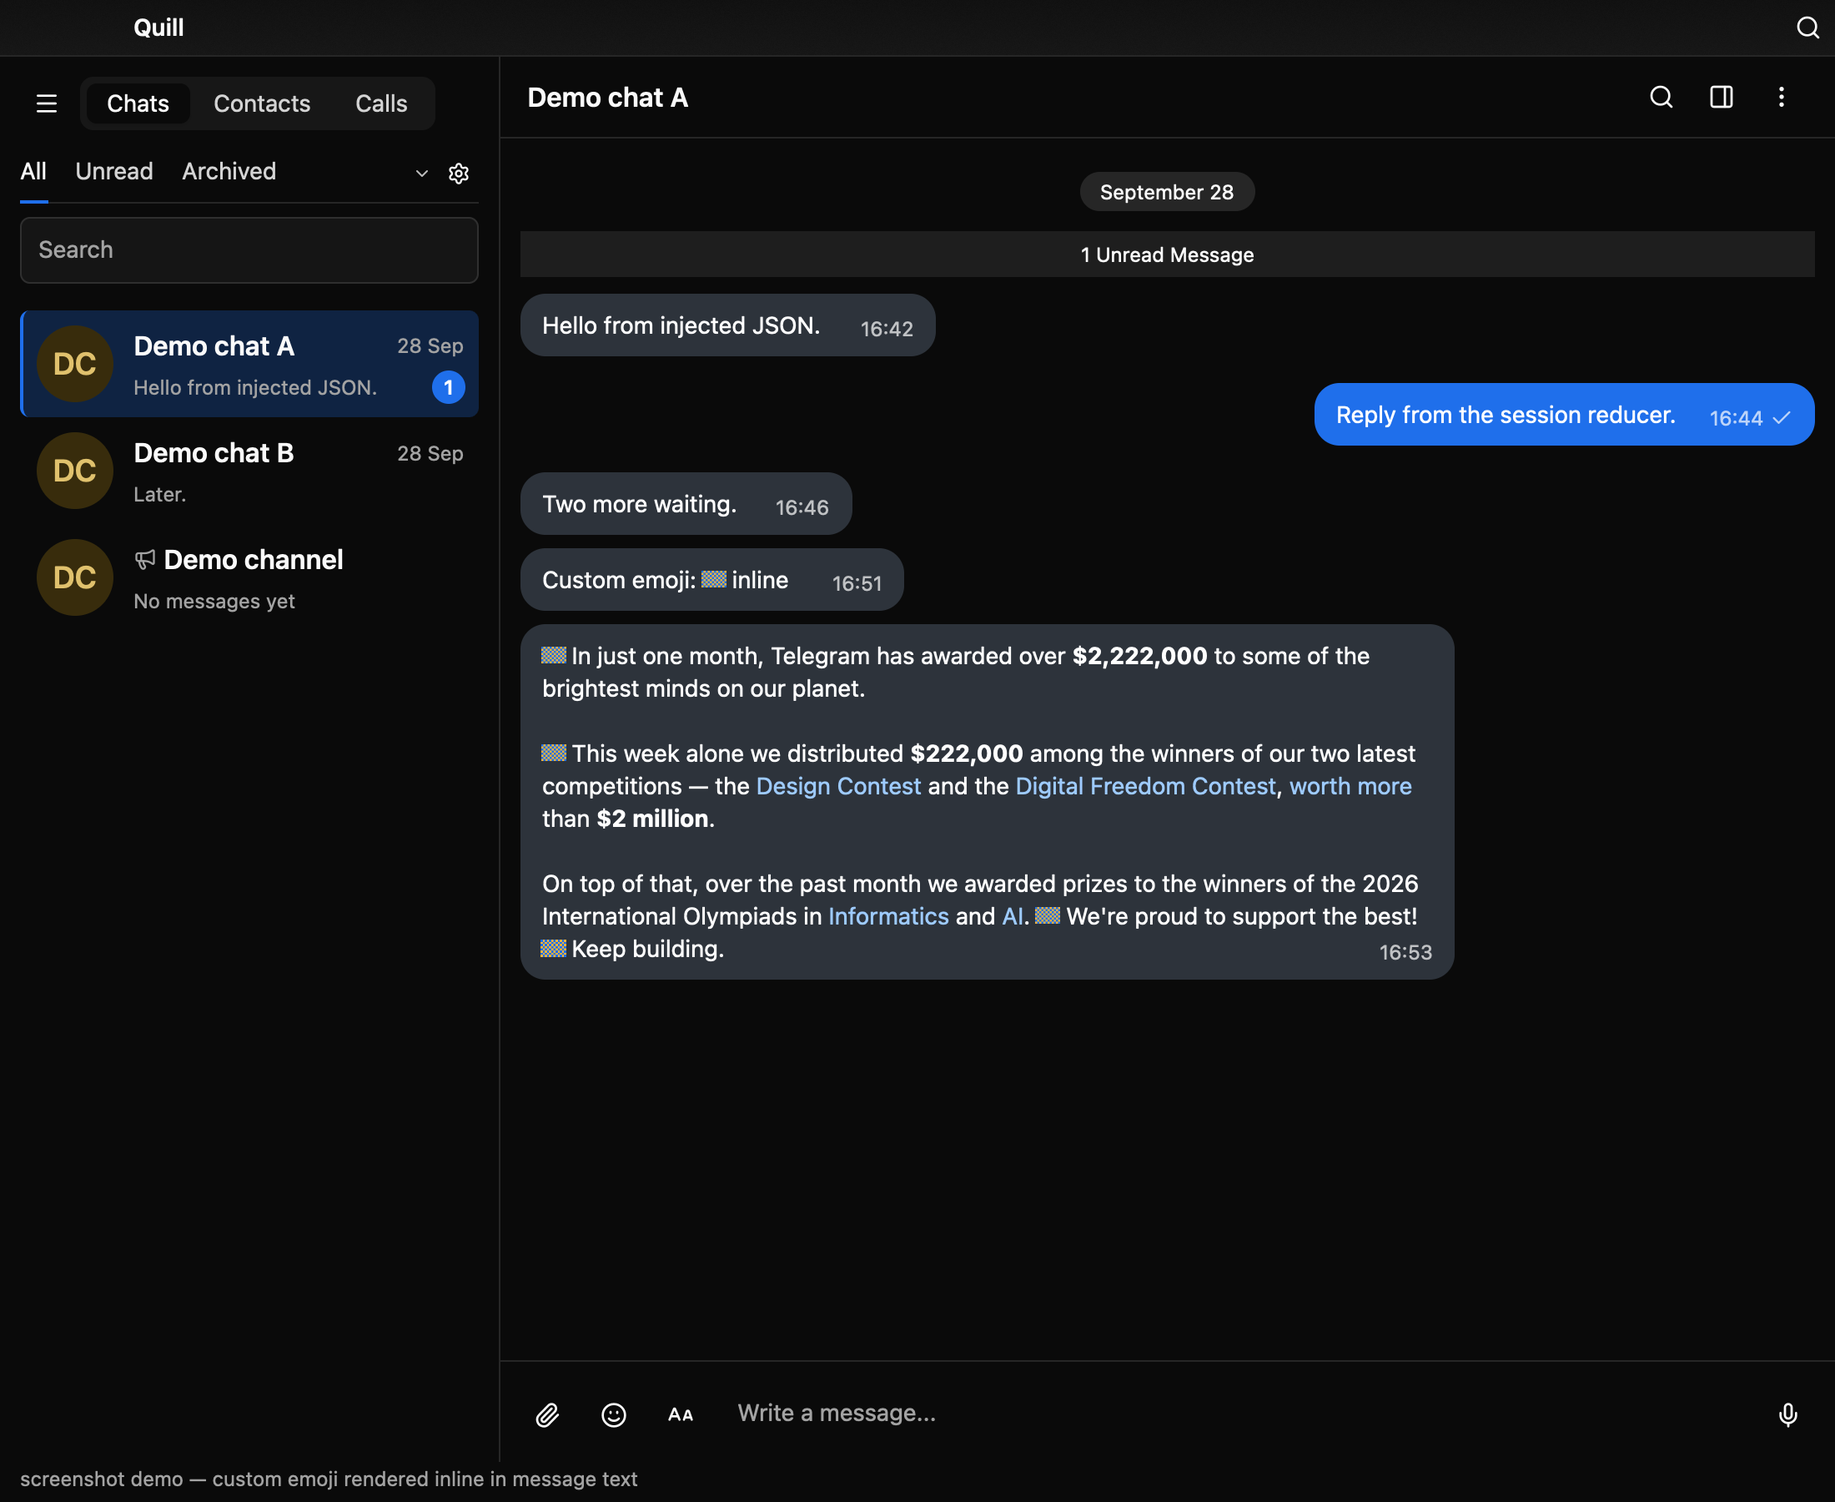
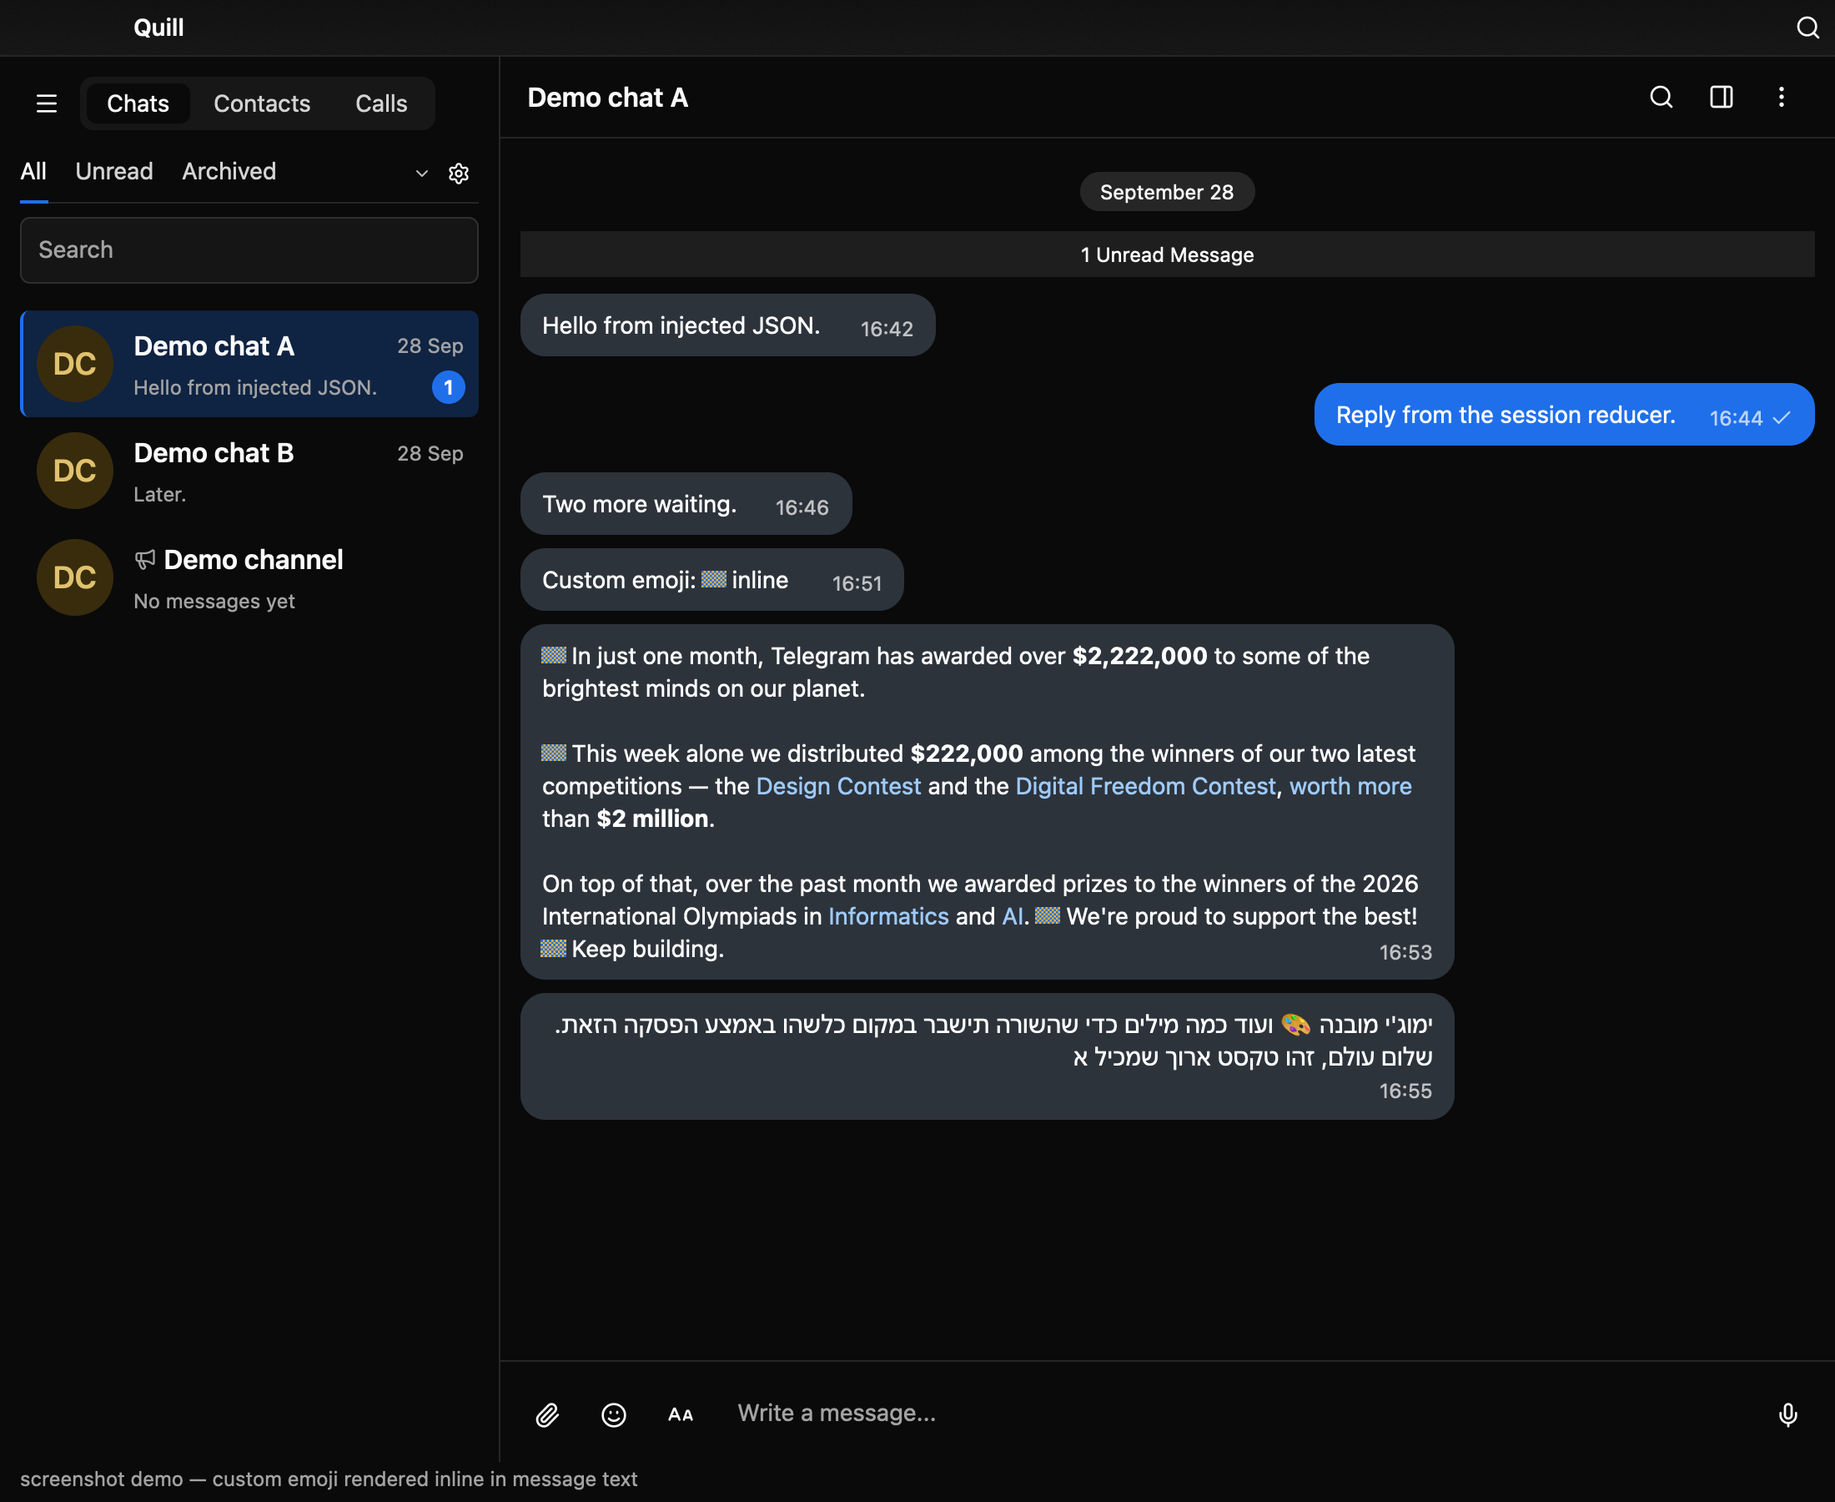
Copy restores custom emoji text; RTL paragraphs keep the emoji glyph; RTL demo post

Changed region(s): [[0.2782, 0.6533, 0.8036, 0.7467]]

diff --git a/src/ui/selectable_text.rs b/src/ui/selectable_text.rs
@@ -22,6 +22,11 @@ thread_local! {
     /// The message whose text the current selection covers, as last
     /// painted; see [`selected_message_text`].
     static SELECTED_MESSAGE: Cell<Option<(i64, u64)>> = const { Cell::new(None) };
+    /// Custom emoji inside the current selection, by (document order,
+    /// byte offset): their fallback text replaces the placeholders in the
+    /// copied string; see [`selected_message_text`].
+    static SELECTED_EMOJI: std::cell::RefCell<std::collections::BTreeMap<(u64, usize), String>> =
+        const { std::cell::RefCell::new(std::collections::BTreeMap::new()) };
     static OWNERS: std::cell::RefCell<std::collections::HashMap<EntityId, (i64, u64)>> =
         std::cell::RefCell::new(std::collections::HashMap::new());
 }
@@ -38,6 +43,9 @@ pub(super) struct InlineEmoji {
     /// Byte range of the placeholder in the paragraph text.
     pub(super) range: Range<usize>,
     pub(super) visual: InlineEmojiVisual,
+    /// The emoji's own characters (the entity's text), copied in place of
+    /// the placeholder.
+    pub(super) fallback: String,
 }
 
 pub(super) enum InlineEmojiVisual {
@@ -73,9 +81,6 @@ pub(super) struct SelectableRichText {
     layer: Option<super::anim_layer::Layer>,
     /// Custom emoji painted over placeholder glyphs.
     emoji: Vec<InlineEmoji>,
-    /// The paragraph is right-aligned (RTL), so visual lines start
-    /// further right than `position_for_index` reports.
-    align_right: bool,
 }
 
 impl SelectableRichText {
@@ -92,7 +97,6 @@ impl SelectableRichText {
             spoilers: Vec::new(),
             layer: None,
             emoji: Vec::new(),
-            align_right: false,
         }
     }
 
@@ -103,12 +107,6 @@ impl SelectableRichText {
             self.layer = super::anim_layer::current();
         }
         self.emoji = emoji;
-        self
-    }
-
-    /// Lay the paragraph's lines out right-aligned.
-    pub(super) fn align_right(mut self, right: bool) -> Self {
-        self.align_right = right;
         self
     }
 
@@ -161,57 +159,11 @@ impl SelectableRichText {
     }
 }
 
-/// Where a visual line of `layout` starts: `position_for_index`, shifted
-/// for right-aligned paragraphs by the line's slack (GPUI aligns each
-/// wrapped line inside the element's width at paint time).
-fn glyph_origin(
-    layout: &TextLayout,
-    text: &str,
-    index: usize,
-    width: Pixels,
-    align_right: bool,
-) -> Option<Point<Pixels>> {
-    let position = layout.position_for_index(index)?;
-    if !align_right {
-        return Some(position);
-    }
-    let line_start = text[..index].rfind('\n').map_or(0, |at| at + 1);
-    let wrapped = layout.line_layout_for_index(index)?;
-    let within = index - line_start;
-    let mut ends: Vec<usize> = wrapped
-        .wrap_boundaries
-        .iter()
-        .map(|boundary| {
-            wrapped.unwrapped_layout.runs[boundary.run_ix].glyphs[boundary.glyph_ix].index
-        })
-        .collect();
-    ends.push(wrapped.len());
-    let mut start = 0;
-    for end in ends {
-        if within > end {
-            start = end;
-            continue;
-        }
-        let line_width =
-            wrapped.unwrapped_layout.x_for_index(end) - wrapped.unwrapped_layout.x_for_index(start);
-        return Some(position + point((width - line_width).max(Pixels::ZERO), Pixels::ZERO));
-    }
-    Some(position)
-}
-
 /// The box a custom emoji with the placeholder at `range` is painted in:
 /// the placeholder glyph's box, enlarged a little and centred on the line.
-fn emoji_bounds(
-    layout: &TextLayout,
-    text: &str,
-    range: &Range<usize>,
-    bounds: Bounds<Pixels>,
-    align_right: bool,
-    font: Pixels,
-) -> Option<Bounds<Pixels>> {
-    let width = bounds.size.width;
-    let start = glyph_origin(layout, text, range.start, width, align_right)?;
-    let end = glyph_origin(layout, text, range.end, width, align_right)?;
+fn emoji_bounds(layout: &TextLayout, range: &Range<usize>, font: Pixels) -> Option<Bounds<Pixels>> {
+    let start = layout.position_for_index(range.start)?;
+    let end = layout.position_for_index(range.end)?;
     let line_height = layout.line_height();
     // The glyph's own advance when it sits on one line; at a wrap point
     // `position_for_index` reports the previous line's end for `start`, so
@@ -324,14 +276,7 @@ impl Element for SelectableRichText {
             let layout = self.styled.layout().clone();
             let font = window.text_style().font_size.to_pixels(window.rem_size());
             for item in &self.emoji {
-                let Some(rect) = emoji_bounds(
-                    &layout,
-                    &self.text,
-                    &item.range,
-                    bounds,
-                    self.align_right,
-                    font,
-                ) else {
+                let Some(rect) = emoji_bounds(&layout, &item.range, font) else {
                     continue;
                 };
                 let mut element = match &item.visual {
@@ -425,6 +370,17 @@ impl Element for SelectableRichText {
         }
         if selected_before != TextSelection::selected_text(window, cx) {
             window.refresh();
+        }
+        if !self.emoji.is_empty() || SELECTED_EMOJI.with(|map| !map.borrow().is_empty()) {
+            let order = self.document_order;
+            let selected = selected_fallbacks(&self.emoji, projection.ranges());
+            SELECTED_EMOJI.with(|map| {
+                let mut map = map.borrow_mut();
+                map.retain(|(o, _), _| *o != order);
+                for (at, fallback) in selected {
+                    map.insert((order, at), fallback);
+                }
+            });
         }
         for range in projection.ranges().iter().flatten() {
             if let (Some(start), Some(end)) = (
@@ -521,6 +477,42 @@ impl Element for SelectableRichText {
     }
 }
 
+/// The fallback text of the custom emoji whose placeholder lies within one
+/// of the selected `ranges`, with the placeholder's byte offset.
+fn selected_fallbacks(
+    emoji: &[InlineEmoji],
+    ranges: &[Option<Range<usize>>],
+) -> Vec<(usize, String)> {
+    emoji
+        .iter()
+        .filter(|item| {
+            ranges
+                .iter()
+                .flatten()
+                .any(|r| r.start <= item.range.start && item.range.end <= r.end)
+        })
+        .map(|item| (item.range.start, item.fallback.clone()))
+        .collect()
+}
+
+/// `selected` with its first `fallbacks.len()` placeholders replaced by
+/// the emoji's own text, in order; any further placeholder characters are
+/// the bubble footer's reserved space and are dropped.
+fn with_emoji_fallbacks(selected: &str, fallbacks: &[String]) -> String {
+    let mut out = String::with_capacity(selected.len());
+    let mut next = fallbacks.iter();
+    for ch in selected.chars() {
+        if ch == EMOJI_PLACEHOLDER {
+            if let Some(fallback) = next.next() {
+                out.push_str(fallback);
+            }
+        } else {
+            out.push(ch);
+        }
+    }
+    out
+}
+
 /// The window's selected message text and the message it belongs to.
 /// Footer padding (em spaces reserving room for the time) is stripped.
 pub(super) fn selected_message_text(
@@ -530,12 +522,21 @@ pub(super) fn selected_message_text(
     if !TextSelection::has_selection(window, cx) {
         return None;
     }
-    let text = TextSelection::selected_text(window, cx).replace(EMOJI_PLACEHOLDER, "");
+    let selected = TextSelection::selected_text(window, cx);
+    let message = SELECTED_MESSAGE.with(Cell::get)?;
+    let fallbacks: Vec<String> = SELECTED_EMOJI.with(|map| {
+        map.borrow()
+            .iter()
+            .filter(|((order, _), _)| order >> 10 == message.1)
+            .map(|(_, fallback)| fallback.clone())
+            .collect()
+    });
+    let text = with_emoji_fallbacks(&selected, &fallbacks);
     let text = text.trim();
     if text.is_empty() {
         return None;
     }
-    Some((SELECTED_MESSAGE.with(Cell::get)?, text.to_string()))
+    Some((message, text.to_string()))
 }
 
 /// Marks the scrolling region that selectable message text lives in, so a
@@ -611,7 +612,7 @@ impl Element for SelectionViewport {
 
 #[cfg(all(test, feature = "demo-capture"))]
 mod tests {
-    use super::{EMOJI_PLACEHOLDER, SelectableRichText, emoji_bounds};
+    use super::{EMOJI_PLACEHOLDER, SelectableRichText, emoji_bounds, with_emoji_fallbacks};
     use gpui_kit::component::Root;
     use gpui_kit::test::TestWindowExt;
     use gpui_kit::{
@@ -679,6 +680,20 @@ mod tests {
         lay_out(&with_emoji, |_, lines| assert_eq!(lines, expected));
     }
 
+    /// Copying maps each placeholder back to the emoji's own characters;
+    /// the footer's reserved space (more placeholder characters) is dropped.
+    #[test]
+    fn copy_restores_emoji_text() {
+        let p = EMOJI_PLACEHOLDER;
+        let copied = format!("hi {p} and {p}!{p}{p}");
+        let fallbacks = vec!["\u{1F3A8}".to_string(), "\u{1F680}".to_string()];
+        assert_eq!(
+            with_emoji_fallbacks(&copied, &fallbacks),
+            "hi \u{1F3A8} and \u{1F680}!"
+        );
+        assert_eq!(with_emoji_fallbacks(&format!("a{p}{p}"), &[]), "a");
+    }
+
     /// The emoji box sits on its neighbours' line, inside the column, and
     /// is roughly text sized.
     #[test]
@@ -688,8 +703,7 @@ mod tests {
             assert_eq!(lines, 1);
             let at = text.find(EMOJI_PLACEHOLDER).unwrap();
             let range = at..at + EMOJI_PLACEHOLDER.len_utf8();
-            let rect = emoji_bounds(layout, &text, &range, layout.bounds(), false, px(14.))
-                .expect("laid out");
+            let rect = emoji_bounds(layout, &range, px(14.)).expect("laid out");
             let line = layout.bounds();
             assert!(rect.origin.x >= line.origin.x && rect.right() <= line.right());
             let centre = rect.origin.y + rect.size.height / 2.;

diff --git a/src/ui/message_text.rs b/src/ui/message_text.rs
@@ -937,6 +937,11 @@ fn inline_paragraph(
     let mut actions = Vec::new();
     let mut spoilers: Vec<(std::ops::Range<usize>, f32)> = Vec::new();
     let mut inline_emoji: Vec<super::selectable_text::InlineEmoji> = Vec::new();
+    // Right-to-left paragraphs keep the emoji's own glyph: the platform
+    // shapes them in visual order, so a byte index no longer maps to an x
+    // position and an overlay could not be placed reliably.
+    let plain_rtl =
+        quill::text::is_rtl_text(&runs.iter().map(|r| r.text.as_str()).collect::<String>());
     for (offset, run) in runs.iter().enumerate() {
         if run.text.is_empty() {
             continue;
@@ -951,16 +956,19 @@ fn inline_paragraph(
         let hidden = style.spoiler && !revealed.contains(&key);
         // A resolved custom emoji (animated first) becomes a placeholder
         // glyph; unresolved ones and hidden spoilers keep their text.
-        let visual = run.custom_emoji_id.filter(|_| !hidden).and_then(|id| {
-            layered
-                .get(&id)
-                .map(|clip| super::selectable_text::InlineEmojiVisual::Clip(clip.clone()))
-                .or_else(|| {
-                    emoji_paths.get(&id).map(|source| {
-                        super::selectable_text::InlineEmojiVisual::Image(source.clone())
+        let visual = run
+            .custom_emoji_id
+            .filter(|_| !hidden && !plain_rtl)
+            .and_then(|id| {
+                layered
+                    .get(&id)
+                    .map(|clip| super::selectable_text::InlineEmojiVisual::Clip(clip.clone()))
+                    .or_else(|| {
+                        emoji_paths.get(&id).map(|source| {
+                            super::selectable_text::InlineEmojiVisual::Image(source.clone())
+                        })
                     })
-                })
-        });
+            });
         let range = if visual.is_some() {
             let at = text.len();
             text.push(super::selectable_text::EMOJI_PLACEHOLDER);
@@ -977,7 +985,11 @@ fn inline_paragraph(
                 click_ranges.push(range.clone());
                 actions.push(InlineAction::Link(href.clone()));
             }
-            inline_emoji.push(super::selectable_text::InlineEmoji { range, visual });
+            inline_emoji.push(super::selectable_text::InlineEmoji {
+                range,
+                visual,
+                fallback: run.text.clone(),
+            });
             continue;
         }
         let mut highlight = HighlightStyle::default();
@@ -1077,8 +1089,7 @@ fn inline_paragraph(
         });
     })
     .spoilers(spoilers)
-    .inline_emoji(inline_emoji)
-    .align_right(rtl);
+    .inline_emoji(inline_emoji);
     div()
         .id(format!(
             "msg-par-wrap-{}-{}-{first_index}",

diff --git a/src/ui/demo.rs b/src/ui/demo.rs
@@ -73,6 +73,7 @@ pub(super) fn seed_ready_custom_emoji_session(sink: Arc<MemorySink>) -> Session 
         r#"{"@type":"updateNewMessage","message":{"id":105,"chat_id":11,"is_outgoing":false,"date":1790632300,"content":{"@type":"messageText","text":{"@type":"formattedText","text":"Custom emoji: 😀 inline","entities":[{"@type":"textEntity","offset":14,"length":2,"type":{"@type":"textEntityTypeCustomEmoji","custom_emoji_id":"4242"}}]}}}}"#,
     );
     apply(&mut session, &rich_post_message_json(106));
+    apply(&mut session, &rtl_emoji_message_json(107));
     // The sticker file the custom emoji resolves to (completed download).
     apply(
         &mut session,
@@ -164,6 +165,18 @@ pub(super) fn rich_post_message_json(id: u64) -> String {
     let entities = entities.join(",");
     format!(
         r#"{{"@type":"updateNewMessage","message":{{"id":{id},"chat_id":11,"is_outgoing":false,"date":1790632400,"content":{{"@type":"messageText","text":{{"@type":"formattedText","text":{text},"entities":[{entities}]}}}}}}}}"#
+    )
+}
+
+/// A right-to-left message with a custom emoji mid-text, long enough to
+/// wrap: the emoji must stay inline in the right-aligned lines.
+pub(super) fn rtl_emoji_message_json(id: u64) -> String {
+    let before = "שלום עולם, זהו טקסט ארוך שמכיל אימוג'י מובנה ";
+    let after = " ועוד כמה מילים כדי שהשורה תישבר במקום כלשהו באמצע הפסקה הזאת.";
+    let offset = before.encode_utf16().count();
+    let text = serde_json::to_string(&format!("{before}\u{1F3A8}{after}")).unwrap_or_default();
+    format!(
+        r#"{{"@type":"updateNewMessage","message":{{"id":{id},"chat_id":11,"is_outgoing":false,"date":1790632500,"content":{{"@type":"messageText","text":{{"@type":"formattedText","text":{text},"entities":[{{"@type":"textEntity","offset":{offset},"length":2,"type":{{"@type":"textEntityTypeCustomEmoji","custom_emoji_id":"4242"}}}}]}}}}}}}}"#
     )
 }
 

diff --git a/docs/decisions/codex-rich-text-inline.md b/docs/decisions/codex-rich-text-inline.md
@@ -29,17 +29,22 @@ in `prepaint` (after layout), measures the placeholder with
 - Animation layer: the `Layered` element is prepainted at the inline
   box, so its recorded bounds come from the new positions (the layer is
   captured with `with_layer`, as the element is built outside render).
-- RTL: paragraphs aligned right (PR #395/#440 path) are handled by
-  `glyph_origin`, which adds the wrapped line's alignment slack because
-  `position_for_index` ignores `text-align`. Same code path serves LTR.
+- RTL: the platform shapes right-to-left paragraphs in visual order, so a
+  byte index no longer maps to an x position (the wrapped lines of an RTL
+  bubble come out in visual order too, a pre-existing limitation; the
+  bubble has no bidi layout yet). An overlay cannot be placed reliably
+  there, so RTL paragraphs keep the emoji's own glyph. Verified in the
+  `ready-custom-emoji` capture (Hebrew post with an emoji mid-text).
 - A wrap right before the emoji makes `position_for_index` report the
   previous line's end; `emoji_bounds` detects it (y differs) and uses the
   box just before the placeholder's end.
 - Links around an emoji keep their click range; hover/cursor, selection,
   spoilers and bold/italic/code are unchanged highlights over one text.
-- Copy: the placeholder is stripped like the footer padding, so a copied
-  selection omits custom emoji (their fallback emoji is not in the shaped
-  text). Known limitation; tdesktop copies the emoji.
+- Copy: each paragraph records which of its emoji lie in the current
+  selection (`SELECTED_EMOJI`), and `selected_message_text` replaces the
+  placeholders in the copied string, in order, with the entity's own
+  characters (as tdesktop does); leftover placeholder characters are the
+  footer padding and are dropped.
 - Unresolved emoji and hidden spoilers keep their text.
 
 ## Tests
@@ -47,7 +52,7 @@ in `prepaint` (after layout), measures the placeholder with
 `ui::selectable_text::tests` (needs `--features demo-capture`): a
 placeholder mid-sentence does not change the visual line count versus a
 plain character, and the emoji box sits on its line, inside the column,
-at about text size.
+at about text size; copying maps placeholders back to the emoji text.
 
 ## Screenshots
 
